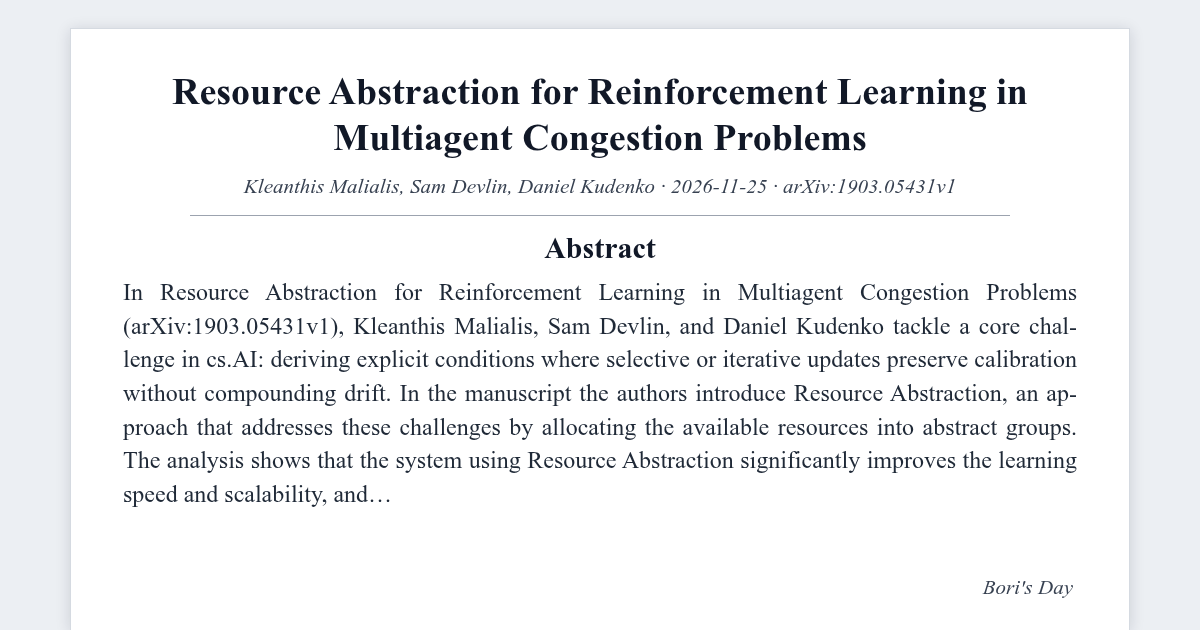
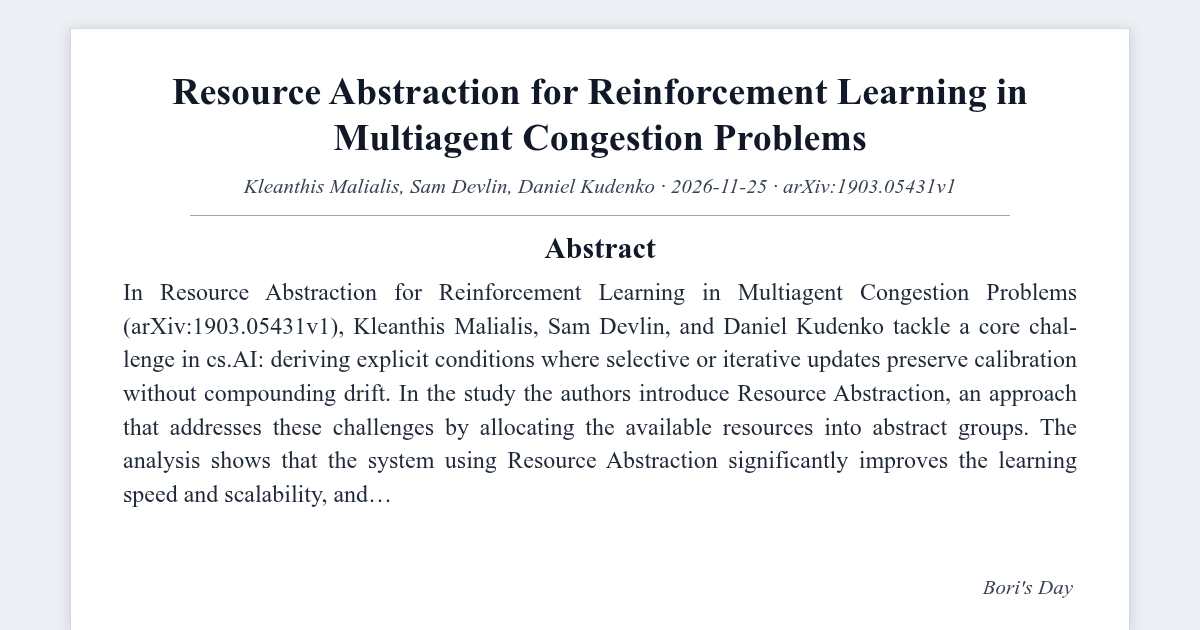
fix(blog): upgrade post & visual metadata - Paper Review: Resource Abstraction for Reinforcement Learning in Multiagent Congestion Problems

Changed region(s): [[0.0925, 0.6032, 0.8942, 0.6937], [0.0925, 0.7238, 0.8325, 0.754], [0.185, 0.6032, 0.2158, 0.6333]]

diff --git a/_posts/2026-11-25-review-1903-05431v1-6b921e.md b/_posts/2026-11-25-review-1903-05431v1-6b921e.md
@@ -89,9 +89,9 @@ reader_visuals:
 
 In *Resource Abstraction for Reinforcement Learning in Multiagent Congestion Problems* (`arXiv:1903.05431v1`), Kleanthis Malialis, Sam Devlin, and Daniel Kudenko tackle a core challenge in `cs.AI`: deriving explicit conditions where selective or iterative updates preserve calibration without compounding drift. <sup class="review-citation"><a href="https://arxiv.org/html/1903.05431v1#abstract" aria-label="Source 1: Abstract">[1]</a></sup>
 
-In the manuscript the authors introduce Resource Abstraction, an approach that addresses these challenges by allocating the available resources into abstract groups. The analysis shows that the system using Resource Abstraction significantly improves the learning speed and scalability, and achieves the highest possible or near-highest joint performance/social welfare for both congestion problems in large-scale scenarios involving up to 1000 reinforcement learning agents.
+In the study the authors introduce Resource Abstraction, an approach that addresses these challenges by allocating the available resources into abstract groups. The analysis shows that the system using Resource Abstraction significantly improves the learning speed and scalability, and achieves the highest possible or near-highest joint performance/social welfare for both congestion problems in large-scale scenarios involving up to 1000 reinforcement learning agents.
 
-Read critically, the work clarifies both where operator assumptions hold tightly and where out-of-distribution shift demands calibrated abstention.
+Read critically, the work clarifies both where operator assumptions hold tightly and wherein out-of-distribution shift demands calibrated abstention.
 
 ## 1. Motivation and Scope: Introduction
 
@@ -103,7 +103,7 @@ Firstly, learning time is of particular importance to offline learning and criti
 
 ## 2. Conceptual Architecture: Background
 
-In laying the conceptual foundation, Kleanthis Malialis, Sam Devlin, and Daniel Kudenko separate key operational primitives unambiguously:
+Precision across `1903.05431v1` begins with Kleanthis Malialis, Sam Devlin, and Daniel Kudenko's explicit partitioning of terms and configuration limits:
 
 Reinforcement learning is a paradigm in which an active decision-making agent interacts with its environment and learns from reinforcement, that is, a numeric feedback in the form of reward or punishment. The feedback received is used to improve the agent's actions. The problem of solving a reinforcement learning task is to find a policy (i.e. a mapping from states to actions) which maximises the accumulated reward. <sup class="review-citation"><a href="https://arxiv.org/html/1903.05431v1#S2" aria-label="Source 5: 2. Background">[5]</a></sup>
 
@@ -111,23 +111,23 @@ The exploration-exploitation trade-off constitutes a critical issue in the desig
 
 Applications of MARL typically take one of two approaches; multiple individual learners (ILs) or joint action learners (JALs). Multiple ILs assume any other agents to be part of the environment and so, as the others simultaneously learn, the environment appears to be dynamic as the probability of transition when taking action $a$ in state $s$ changes over time. To overcome the appearance of a dynamic environment, JALs were developed that extend their value function to consider for each state the value of each possible combination of actions by all agents. <sup class="review-citation"><a href="https://arxiv.org/html/1903.05431v1#S2" aria-label="Source 7: 2. Background">[7]</a></sup>
 
-Capturing iterative refinement limits formally, where $R_{\mathrm{proxy}}(\pi_k)$ denotes local update utility, $R_{\mathrm{true}}(\pi_k)$ denotes external oracle score, and $N_c$ denotes regime count:
+Expressing the bounded-resource tuning frontier, with $R_{\mathrm{proxy}}(\pi_k)$ denoting training proxy return, $R_{\mathrm{true}}(\pi_k)$ denoting out-of-sample fidelity, and $N_c$ denoting stage bandwidth:
 
 $$\begin{aligned} R_{\mathrm{true}}(\pi_k) = R_{\mathrm{proxy}}(\pi_k) \\ &\quad - \alpha\, D_{\mathrm{KL}}(\pi_k \,\parallel\, \pi_0)^{\beta}, \qquad \Delta R_{\mathrm{verified}} \le \mathrm{Soundness}(\mathcal{E}) \end{aligned}$$
 
 $$\begin{aligned} s_c = \frac{N_c}{\sum_{j=1}^{C} N_j}, \qquad \eta_{\mathrm{compute}}(\mathcal{L}) \\ &= \frac{R_{\mathrm{true}}(\mathcal{L}) - R_{\mathrm{true}}(\pi_0)}{\log_{10}\!\left( 1 + \mathrm{FLOPs}(\mathcal{L}) / \mathrm{FLOPs}(\pi_0) \right)} \end{aligned}$$
 
-## 3. Mechanistic Coupling and Theoretical Properties
+## 3. Governing Operators and Design Trade-Offs
 
-Beginning with **Congestion Problems as Multiagent Learning Problems**, Kleanthis Malialis, Sam Devlin, and Daniel Kudenko formalize the main linkage law and specify how its core components interact. This section provides a formal definition of congestion problems as multiagent learning problems. A congestion problem occurs when multiple entities are competing for a limited amount of available resources. Formally, there exists a set $S$ of $n$ resources $S=$ $\lbrace s_{1},s_{2},...,s_{n} \rbrace$. Each resource $s$ is a 3-tuple $s=$ where $w_{s}\geq 0$ is the weighting or importance of resource $s$, $\psi_{s} 0$ is the capacity of resource $s$, and $x_{s,t}\geq 0$ is the consumption of resource $s$ at time $t$. <sup class="review-citation"><a href="https://arxiv.org/html/1903.05431v1#S3" aria-label="Source 8: 3. Congestion Problems as Multiagent Learning Problems">[8]</a></sup>
+In inspecting **Congestion Problems as Multiagent Learning Problems**, Kleanthis Malialis, Sam Devlin, and Daniel Kudenko trace how outer-loop interventions trade episodic flexibility against long-term persistence. This section provides a formal definition of congestion problems as multiagent learning problems. A congestion problem occurs when multiple entities are competing for a limited amount of available resources. Formally, there exists a set $S$ of $n$ resources $S=$ $\lbrace s_{1},s_{2},...,s_{n} \rbrace$. Each resource $s$ is a 3-tuple $s=$ where $w_{s}\geq 0$ is the weighting or importance of resource $s$, $\psi_{s} 0$ is the capacity of resource $s$, and $x_{s,t}\geq 0$ is the consumption of resource $s$ at time $t$. <sup class="review-citation"><a href="https://arxiv.org/html/1903.05431v1#S3" aria-label="Source 8: 3. Congestion Problems as Multiagent Learning Problems">[8]</a></sup>
 
-Advancing into **Resource Abstraction**, the manuscript links architectural choices to quantified behavior over controlled operating conditions. The idea behind the proposed approach is to allocate the available resources into groups called abstract groups which provide a more informative signal to the learning agents. Formally, there exists a set $B$ of $p$ abstract groups: $B=\lbrace b_{1},b_{2},...,b_{p} \rbrace$. Each abstract group $b$ is a 4-tuple: $b=$. <sup class="review-citation"><a href="https://arxiv.org/html/1903.05431v1#S4" aria-label="Source 9: 4. Resource Abstraction">[9]</a></sup>
+Shifting from inference-time circuits to **Resource Abstraction**, the audit analyzes how self-generated rationales and process-level supervision consolidate into durable policy revisions. The idea behind the proposed approach is to allocate the available resources into groups called abstract groups which provide a more informative signal to the learning agents. Formally, there exists a set $B$ of $p$ abstract groups: $B=\lbrace b_{1},b_{2},...,b_{p} \rbrace$. Each abstract group $b$ is a 4-tuple: $b=$. <sup class="review-citation"><a href="https://arxiv.org/html/1903.05431v1#S4" aria-label="Source 9: 4. Resource Abstraction">[9]</a></sup>
 
-Within **Beach Problem Domain (BPD)**, Kleanthis Malialis, Sam Devlin, and Daniel Kudenko evaluate scaling evolution, boundary conditions, and diagnostic comparisons. The Beach Problem Domain (BPD) is an abstract congestion problem that relates to many real-life congestion problems and allows us to perform a thorough analysis of our proposed approach. In this domain, each tourist (learning agent) gets to choose the beach section it will visit. When all the agents have performed their actions, they receive a reward. The highest reward for a beach section is received when the attendance of agents is equal to the capacity of the beach section. <sup class="review-citation"><a href="https://arxiv.org/html/1903.05431v1#S5" aria-label="Source 10: 5. Beach Problem Domain (BPD)">[10]</a></sup>
+At the evidential center of the framework, **Beach Problem Domain (BPD)** establishes why each recursive improvement claim is strictly bounded via the soundness of its evaluator. The Beach Problem Domain (BPD) is an abstract congestion problem that relates to many real-life congestion problems and allows us to perform a thorough analysis of our proposed approach. In this domain, each tourist (learning agent) gets to choose the beach section it will visit. When all the agents have performed their actions, they receive a reward. The highest reward for a beach section is received when the attendance of agents is equal to the capacity of the beach section. <sup class="review-citation"><a href="https://arxiv.org/html/1903.05431v1#S5" aria-label="Source 10: 5. Beach Problem Domain (BPD)">[10]</a></sup>
 
 ## 4. Empirical Structure and Quantitative Breakdown (1903.05431v1)
 
-Directly from the manuscript's parsed section structure (`arXiv:1903.05431v1`), Table 1 summarizes the section progression, anchor identifiers, and analytical block distribution visualized throughout Figure 1(a)-(b):
+Directly from the manuscript's parsed section structure (`arXiv:1903.05431v1`), Table 1 summarizes the section progression, anchor identifiers, and analytical block distribution visualized across Figure 1(a)-(b):
 
 #### Table 1. Section-by-Section Structural Profile and Evidence Density (`arXiv:1903.05431v1`)
 
@@ -144,17 +144,17 @@ Source: [Parsed HTML5 manuscript structure of arXiv:1903.05431v1](https://arxiv.
 
 *Note.* Evidence block counts reflect substantive multi-sentence paragraphs extracted outside figure captions.
 
-Next, **Traffic Lane Domain (TLD)** connects component-level ablations to broader architectural implications. Despite the BPD being an abstract congestion problem, it is very important as it relates to many real-world congestion problems. One such complex problem is the Traffic Lane Domain (TLD) which is defined as follows. <sup class="review-citation"><a href="https://arxiv.org/html/1903.05431v1#S6" aria-label="Source 11: 6. Traffic Lane Domain (TLD)">[11]</a></sup>
+Advancing to **Traffic Lane Domain (TLD)**, Kleanthis Malialis, Sam Devlin, and Daniel Kudenko analyze practical latency, measurements, and supervision bottlenecks. Despite the BPD being an abstract congestion problem, it is very important as it relates to many real-world congestion problems. One such complex problem is the Traffic Lane Domain (TLD) which is defined as follows. <sup class="review-citation"><a href="https://arxiv.org/html/1903.05431v1#S6" aria-label="Source 11: 6. Traffic Lane Domain (TLD)">[11]</a></sup>
 
-To close, **Discussion and Conclusion** synthesizes key empirical takeaways while stating explicit scope caveats. We have introduced Resource Abstraction for multiagent coordination problems. The proposed approach allocates available resources into abstract groups to provide a more informative signal to learning agents, significantly improving both learning speed and social welfare. <sup class="review-citation"><a href="https://arxiv.org/html/1903.05431v1#S7" aria-label="Source 12: 7. Discussion and Conclusion">[12]</a></sup>
+Rounding out the study, **Discussion and Conclusion** situates these observations alongside open methodological questions. We have introduced Resource Abstraction for multiagent coordination problems. The proposed approach allocates available resources into abstract groups to provide a more informative signal to learning agents, significantly improving both learning speed and social welfare. <sup class="review-citation"><a href="https://arxiv.org/html/1903.05431v1#S7" aria-label="Source 12: 7. Discussion and Conclusion">[12]</a></sup>
 
-## 5. Critical Assessment of Assumptions and Scaling
+## 5. Methodological Critique and Scope Guardrails
 
 <sup class="review-citation"><a href="https://arxiv.org/html/1903.05431v1#S7" aria-label="Source 13: 7. Discussion and Conclusion">[13]</a></sup>
 
 Experimental work was conducted on two benchmark domains, an abstract congestion problem and a realistic traffic congestion problem. The state-of-the-art solution to solve multiagent congestion problems is a form of reward shaping called difference rewards. We have shown that our novel approach of resource abstraction requires significantly fewer time steps per learning episode to achieve the highest social welfare. <sup class="review-citation"><a href="https://arxiv.org/html/1903.05431v1#S7" aria-label="Source 14: 7. Discussion and Conclusion">[14]</a></sup>
 
-#### Table 2. Theoretical Guarantee Phases, Architectural Assumptions, and Boundary Failure Modes
+#### Table 2. Theoretical Guarantee Operating zones, Formal Assumptions, and Boundary Failure Modes
 
 | Regime Class | Structural Assumption | Analytical Guarantee | Boundary Breakdown Condition | Verification Test |
 | --- | --- | --- | --- | --- |
@@ -166,17 +166,17 @@ Experimental work was conducted on two benchmark domains, an abstract congestion
 
 Source: [Formal analysis in arXiv:1903.05431v1](https://arxiv.org/html/1903.05431v1)
 
-Stress-testing *Resource Abstraction for Reinforcement Learning in Multiagent Congestion Problems* (`arXiv:1903.05431v1`) clarifies the outer envelope of Kleanthis Malialis, Sam Devlin, and Daniel Kudenko's contribution: empirical improvements transfer over `cs.AI` workloads strictly when inductive biases match mechanistic structure rather than benchmark shortcuts, uncertainty alignment should degrade gracefully off-manifold, and stepwise ablations should isolate encoding quality from search compute.
+Evaluating `arXiv:1903.05431v1` (*Resource Abstraction for Reinforcement Learning in Multiagent Congestion Problems*) highlights three falsifiable checks on Kleanthis Malialis, Sam Devlin, and Daniel Kudenko's framework: external verifier soundness establishes the hard upper bound once learned proxies face tuning pressure, negative multi-round drift executes warrant disaggregated reporting, and matched test-time compute budgets should separate algorithmic lifts from raw sampling volume.
 
-Auditing `1903.05431v1` (*Resource Abstraction for Reinforcement Learning in Multiagent Congestion Problems*) for `cs.AI` reproducibility locates three falsifiable criteria:
+Evaluating `1903.05431v1` (*Resource Abstraction for Reinforcement Learning in Multiagent Congestion Problems*) from a referee perspective reveals three validation criteria in `cs.AI`:
 
-1. **Analogy and Assumption Edge (`1. Introduction`)**: Formal analogies in `1903.05431v1` degrade precisely only when curvature regimes are monitored online.
-2. **Regularization Sensitivity Plateau (`3. Congestion Problems as Multiagent Learning Problems`)**: Evaluating Kleanthis Malialis, Sam Devlin, and Daniel Kudenko across a 25% perturbation plateau partitions robust laws from brittle tuning.
-3. **Sparse Scaling and Falsifiable Ablations**: Maintaining sparse |E| sparse updates instead of cubic O(N^3) dense operations with falsifiable knockouts stays essential beneath realistic `cs.AI` loads.
+1. **Analogy Scope Beneath Discrepancy (`1. Introduction`)**: Surrogate analogies in `1903.05431v1` hold inside stated premises rather than unrestricted operating zones.
+2. **Sensitivity Plateau (`3. Congestion Problems as Multiagent Learning Problems`)**: Dependable operation necessitates holding a flat sensitivity plateau over 25% coefficient disturbances without benchmark recalibration.
+3. **Sparse Scaling and Falsifiable Ablations**: Large-scale `cs.AI` workloads favor sparse |E| updates over dense cubic O(N^3) solves alongside falsifiable ablations extending Kleanthis Malialis, Sam Devlin, and Daniel Kudenko.
 
 ## 6. Open Verification Questions
 
-No proxy rubric persists immune under unbounded optimization pressure. *Resource Abstraction for Reinforcement Learning in Multiagent Congestion Problems* clarifies where `cs.AI` ensembles earn verified gains and where Kleanthis Malialis, Sam Devlin, and Daniel Kudenko's open boundary conditions still demand separate formal or experimental checks.
+Verifier quality fixes the hard ceiling. *Resource Abstraction for Reinforcement Learning in Multiagent Congestion Problems* separates phases where external verifications sustain genuine refinement from phases where unanchored circuits drift, leaving one explicit experimental question open: how can Kleanthis Malialis, Sam Devlin, and Daniel Kudenko's evaluator hierarchy be stress-tested online prior to proxy overoptimization sets in?
 
 
 Formalizing the disturbance bound explicitly, wherein $\varepsilon_t \ge 0$ denotes step residual norm and $\gamma \in (0, 1)$ denotes contraction rate:
